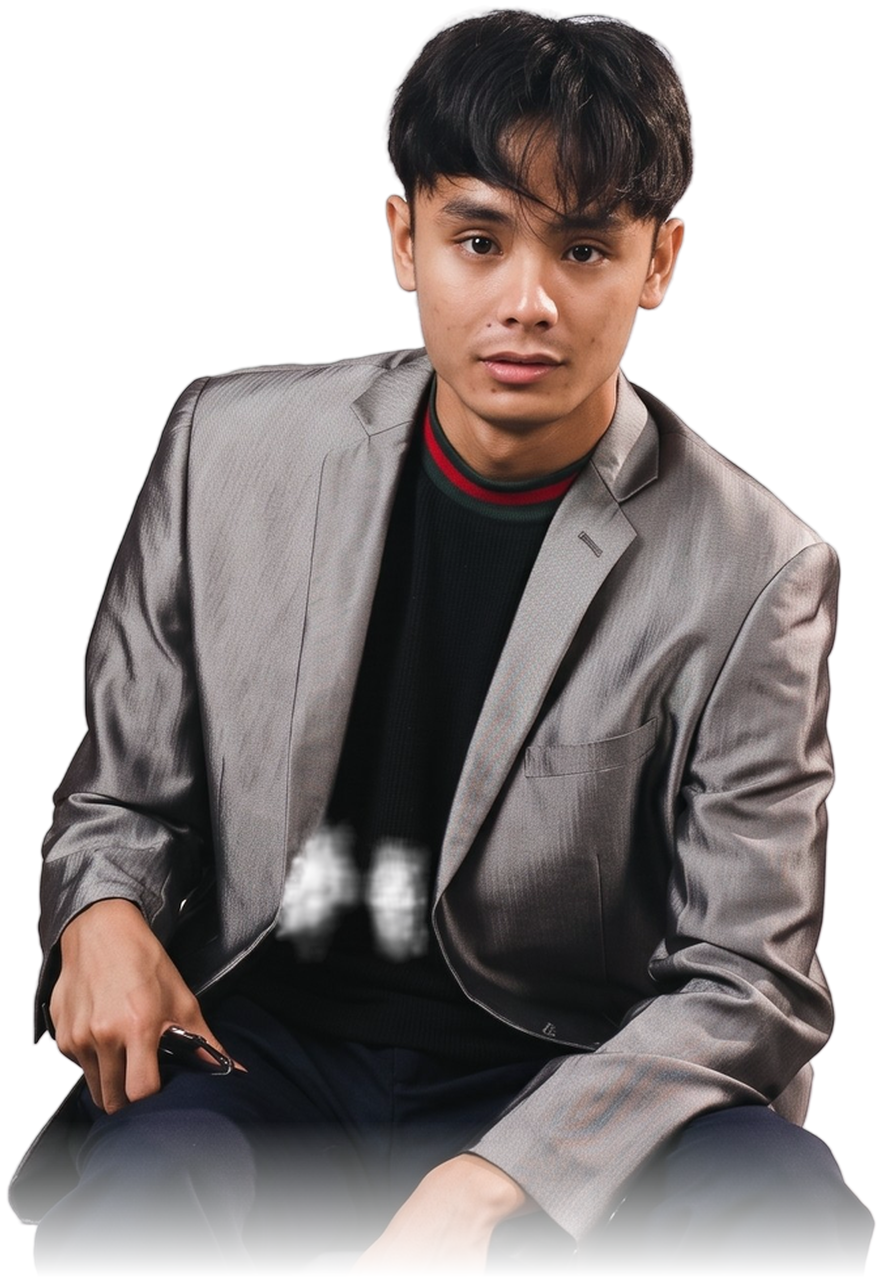
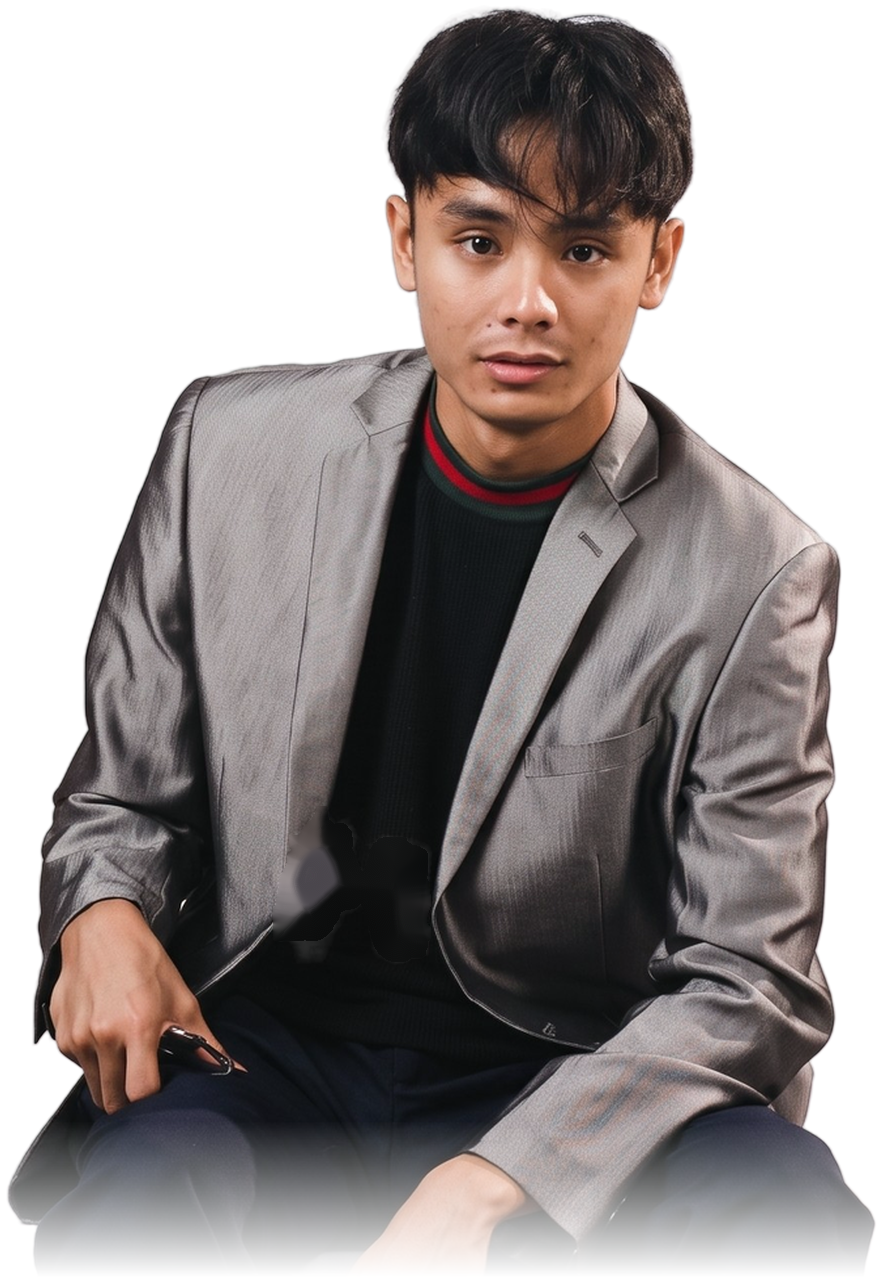
Swap scroll effect to slight monochrome, repair matte artifacts, new hero photo
- about section: remove the blue photo duotone + blue glow + blue wash; instead the
  whole section gets a slight grayscale premium filter while scrolling (peaks when
  centered, back to normal after) so the face stays fully visible
- images/abouthelary.png: remove the 2 fuzzy 'cloud' holes on the sweater (interior
  matte leaks) — filled and inpainted to solid knit
- images/Herohelary.png: replaced with Hero Version 2.jpg (background removed);
  also repaired a large matte hole over the black shirt at the bottom

Changed region(s): [[0.3058, 0.6408, 0.4892, 0.7629]]

diff --git a/index.html b/index.html
@@ -104,14 +104,14 @@ nav.scrolled{background:rgba(244,241,236,.85);backdrop-filter:blur(14px);border-
 /* ============ ABOUT ============ */
 #about{position:relative;overflow:hidden;isolation:isolate;
   background:radial-gradient(130% 100% at 72% 0%,rgba(255,255,255,.5),rgba(255,255,255,0) 55%),
-    linear-gradient(180deg,#e9e9ee 0%,#dcdce4 100%)}
+    linear-gradient(180deg,#e9e9ee 0%,#dcdce4 100%);
+  filter:grayscale(calc(var(--bp,0) * .55)) contrast(calc(1 + var(--bp,0) * .04))}
 .about-giant{position:absolute;left:66%;top:2%;transform:translateX(-50%);z-index:1;white-space:nowrap;
   font-family:'Anton';font-size:clamp(7rem,24vw,22rem);line-height:.9;user-select:none;pointer-events:none;
   background:linear-gradient(180deg,#ffffff 0%,#eceef3 40%,#c4c8d3 68%,rgba(196,200,211,0) 90%);
   -webkit-background-clip:text;background-clip:text;color:transparent;
   opacity:var(--word-o,0);will-change:opacity}
-.about-wash{position:absolute;inset:0;z-index:5;pointer-events:none;
-  background:#2b5fd9;mix-blend-mode:color;opacity:calc(var(--bp,0) * .4)}
+
 .about-grid{display:grid;grid-template-columns:1fr minmax(0,1.12fr);gap:clamp(2rem,5vw,4rem);align-items:end}
 .about-h{font-family:'Anton';font-size:clamp(2rem,4.6vw,3.9rem);line-height:1.05;text-transform:uppercase}
 .about-h em{font-style:normal;color:var(--red)}
@@ -238,17 +238,8 @@ footer a:hover{color:var(--red)}
 .about-cut .cut-img{position:relative;z-index:2;width:100%;height:auto;display:block;
   filter:drop-shadow(0 24px 36px rgba(12,12,14,.3))}
 
-/* ---- 2nd photo: scroll-driven "blue vibe" (peaks mid-scroll, back to normal) ---- */
+/* ---- 2nd photo scroll effect: slight monochrome filter over the whole section (driven by --bp on #about) ---- */
 .cut-stack{position:relative;display:block;width:100%}
-.cut-stack::before{content:'';position:absolute;inset:-8% -12%;z-index:0;border-radius:50%;pointer-events:none;
-  background:radial-gradient(closest-side,rgba(47,125,255,.55),rgba(47,125,255,0) 72%);
-  filter:blur(10px);opacity:calc(var(--bp,0) * .85)}
-.blue-gel{position:absolute;inset:0;z-index:3;pointer-events:none;
-  background:linear-gradient(180deg,#1d5dff 0%,#2f7dff 45%,#8fc0ff 100%);
-  -webkit-mask-image:url('images/abouthelary.png');mask-image:url('images/abouthelary.png');
-  -webkit-mask-size:100% 100%;mask-size:100% 100%;
-  -webkit-mask-repeat:no-repeat;mask-repeat:no-repeat;
-  mix-blend-mode:color;opacity:calc(var(--bp,0) * .92)}
 .about-cut.is-empty{min-height:420px;align-items:center;border:2px dashed rgba(12,12,14,.25);border-radius:22px}
 .about-cut.is-empty::after{content:'📷 add mark-about.png (cut-out, no background)';color:rgba(12,12,14,.45);
   font-weight:600;font-size:.85rem;text-align:center;padding:1rem}
@@ -393,19 +384,17 @@ footer a:hover{color:var(--red)}
     </div>
     <div class="about-photo-wrap reveal d2">
       <!-- 🔁 PHOTO 2: cut-out photo with NO background (transparent PNG) — images/abouthelary.png.
-           The blue-gel layer turns the photo blue while it scrolls past, then it returns to normal. -->
+           While scrolling past, the whole section gets a slight monochrome filter, then returns to normal. -->
       <div class="about-cut">
         <div class="cut-stack">
           <img class="cut-img" src="images/abouthelary.png" alt="Mark Helary Diaz" loading="lazy"
                onerror="if(!this.dataset.t){this.dataset.t=1;this.src='images/2ndimage helary.jpeg';}else{this.closest('.about-cut').classList.add('is-empty');this.remove();}">
-          <div class="blue-gel" aria-hidden="true"></div>
         </div>
         <span class="callout callout-a">Automation mind</span>
         <span class="callout callout-b">Creative eye</span>
       </div>
     </div>
   </div>
-  <div class="about-wash" aria-hidden="true"></div>
 </section>
 
 <!-- ============ EXPERIENCE ============ -->
@@ -641,19 +630,20 @@ const counters = new IntersectionObserver(es => es.forEach(e => {
 }), { threshold: .5 });
 document.querySelectorAll('[data-count]').forEach(el => counters.observe(el));
 
-/* ===== 2nd photo: scroll-driven blue vibe (peaks when centered, returns to normal) ===== */
+/* ===== 2nd photo: scroll-driven slight monochrome moment (peaks when centered, returns to normal) ===== */
+const aboutSec = document.getElementById('about');
 const aboutCut = document.querySelector('.about-cut');
 const aboutGiant = document.querySelector('.about-giant');
 const reduceMotion = matchMedia('(prefers-reduced-motion: reduce)').matches;
-function blueVibe() {
-  if (!aboutCut || reduceMotion) return;
+function monoMoment() {
+  if (!aboutSec || !aboutCut || reduceMotion) return;
   const r = aboutCut.getBoundingClientRect();
   const vh = innerHeight;
   // travel: -1 when the photo is just entering at the bottom, +1 when it's leaving at the top
   const travel = (vh / 2 - (r.top + r.height / 2)) / ((vh + r.height) / 2);
   const bell = Math.max(0, 1 - Math.abs(travel));   // 0 at the edges, 1 when centered
   const p = bell * bell * (3 - 2 * bell);           // smoothstep
-  aboutCut.style.setProperty('--bp', p.toFixed(3));
+  aboutSec.style.setProperty('--bp', p.toFixed(3)); // drives the grayscale filter on #about
 }
 /* ===== silver LEAD word: shows on scroll, then fades as it rises past ===== */
 function leadWord() {
@@ -665,7 +655,7 @@ function leadWord() {
   const p = t * t * (3 - 2 * t);                  // smoothstep
   aboutGiant.style.setProperty('--word-o', p.toFixed(3));
 }
-function onScrollFx() { requestAnimationFrame(() => { blueVibe(); leadWord(); }); }
+function onScrollFx() { requestAnimationFrame(() => { monoMoment(); leadWord(); }); }
 addEventListener('scroll', onScrollFx, { passive: true });
 addEventListener('resize', onScrollFx);
 onScrollFx();
